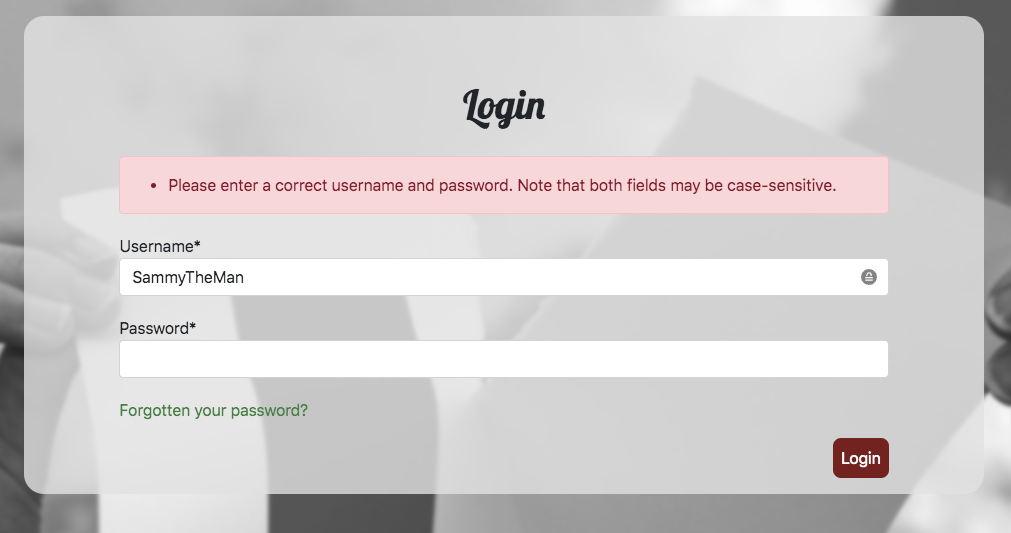
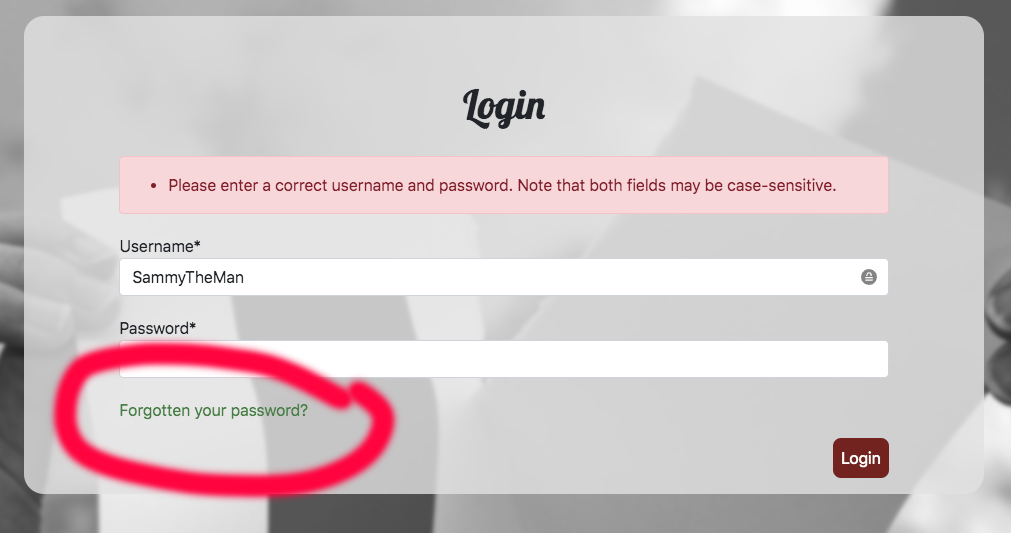
docs: add TinyPNG to readme and highlight area on forgot password screenshot

Changed region(s): [[0.0307, 0.6304, 0.3986, 0.9606]]

diff --git a/README.md b/README.md
@@ -225,6 +225,8 @@ These light greys are used through out the site to highlite areas and as shadow 
 - [H3C CSS Validation](https://jigsaw.w3.org/css-validator/validator.html.en)
 - [pep8online](http://pep8online.com/)
 - [color.a11y.com](https://color.a11y.com/Contrast/)
+- [Pixabay](https://pixabay.com/)
+- [TinyPNG](https://tinypng.com/)
 
 [Table of Contents](#table-of-contents)
 ***
